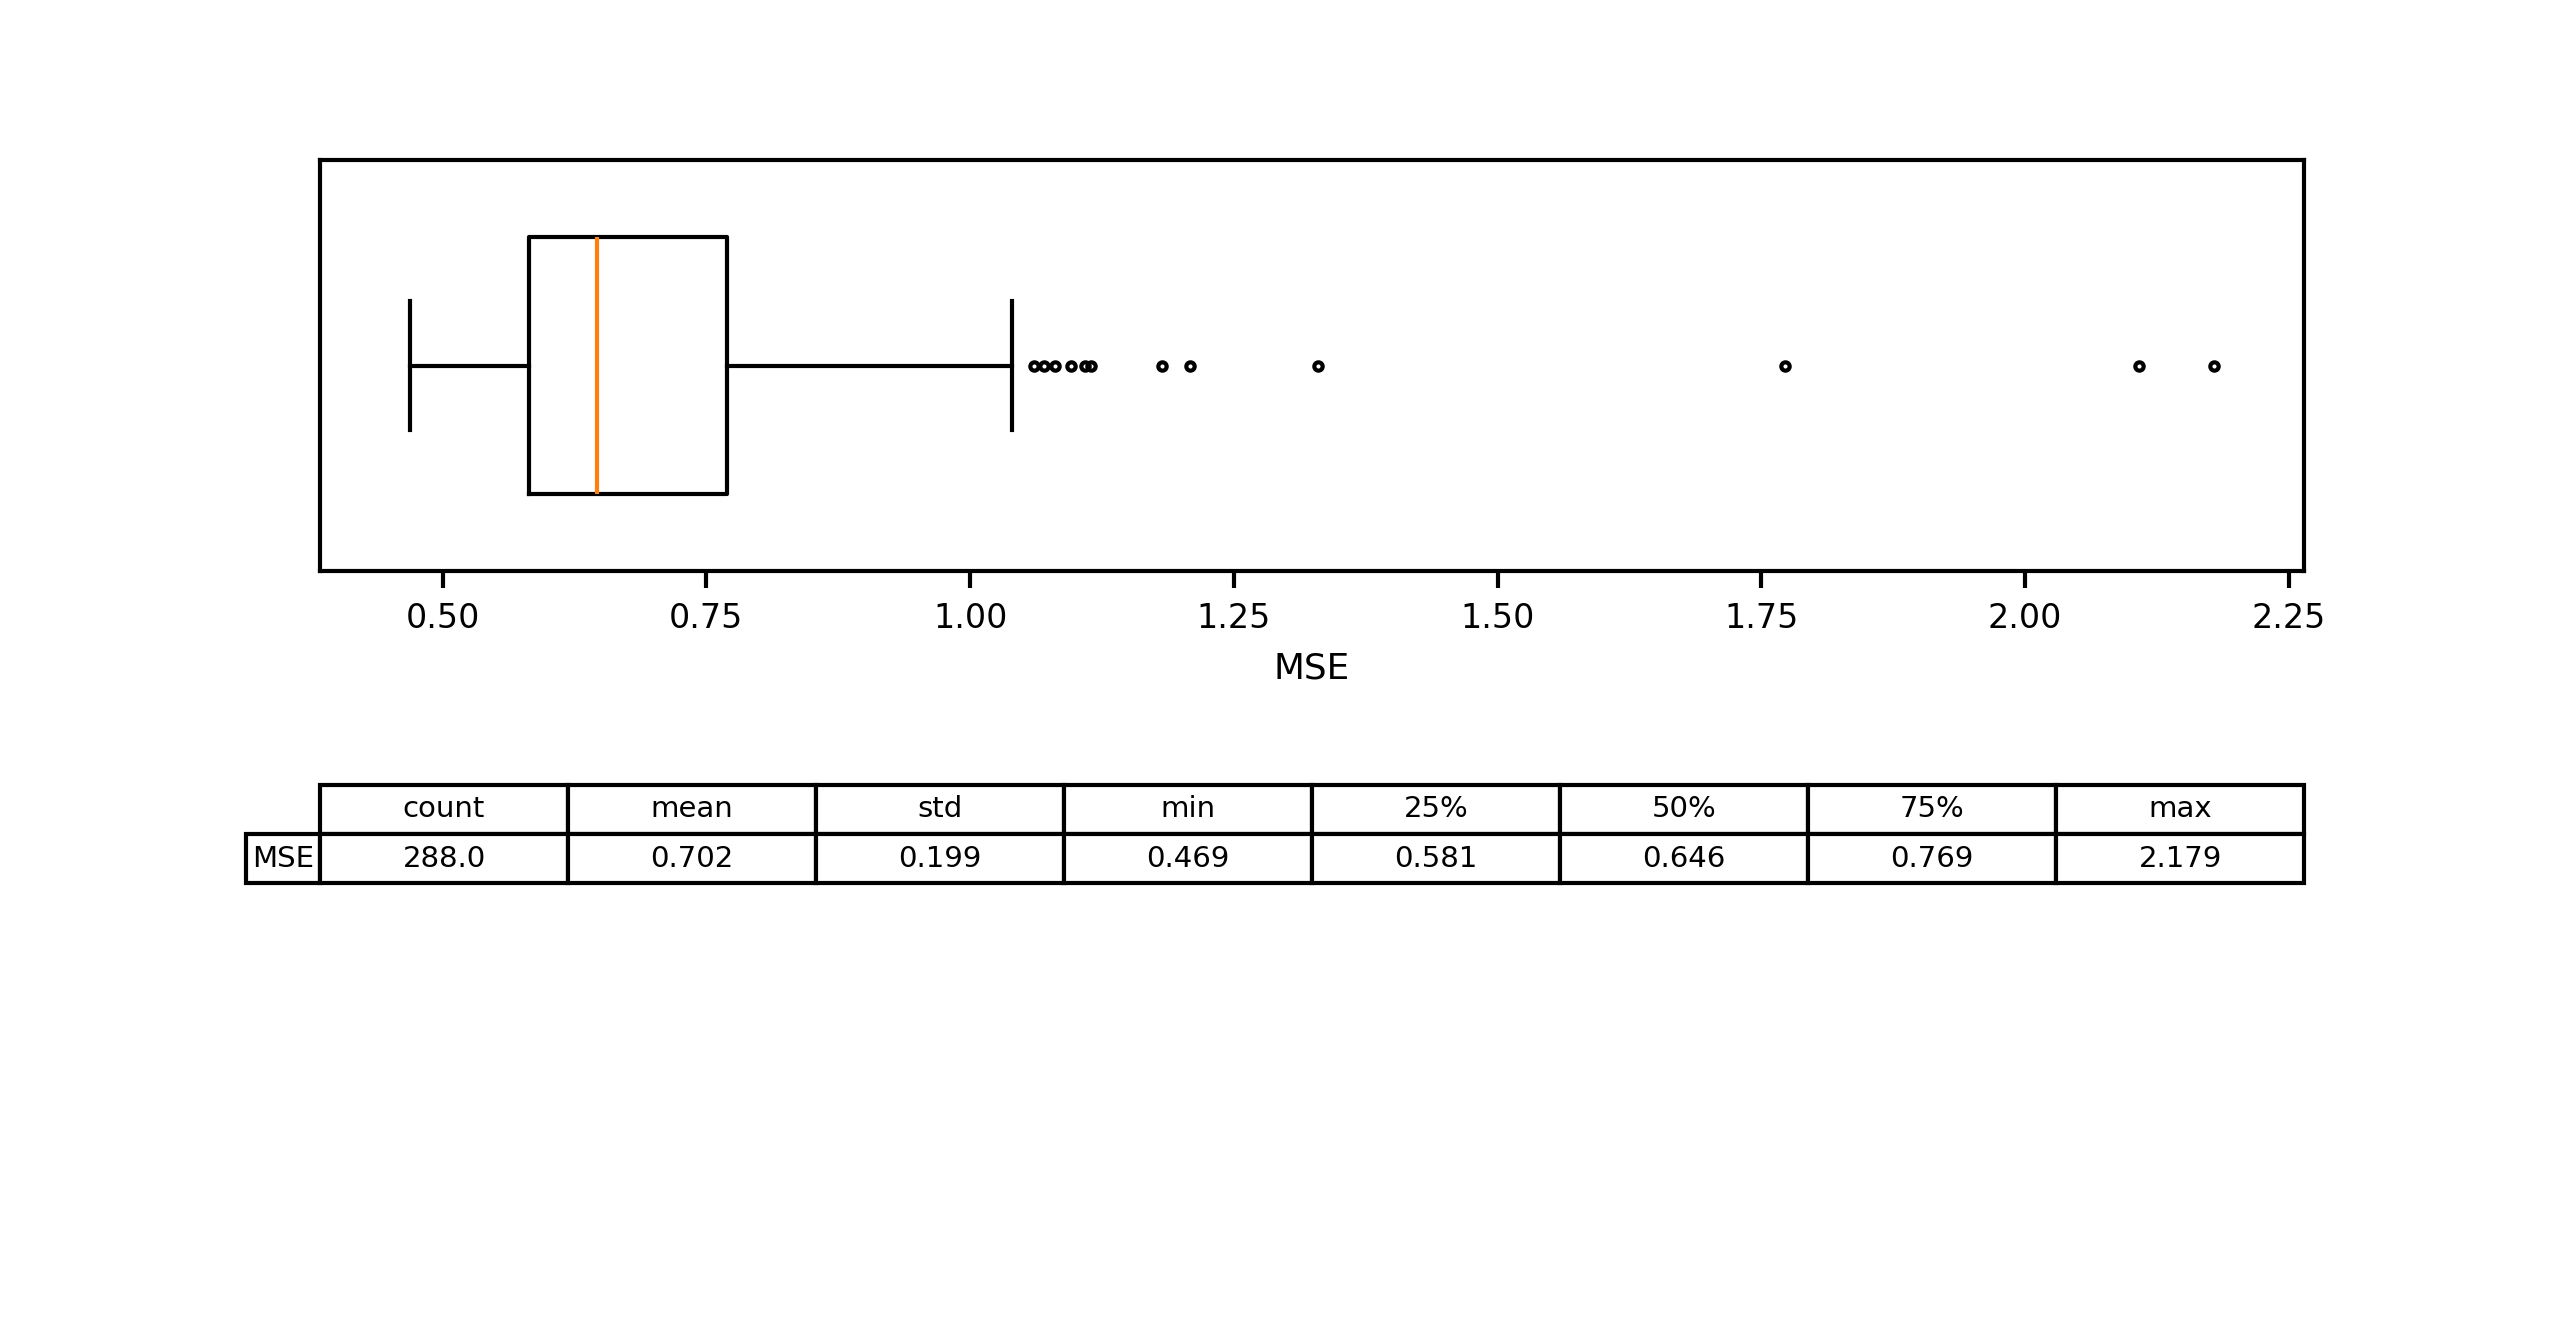
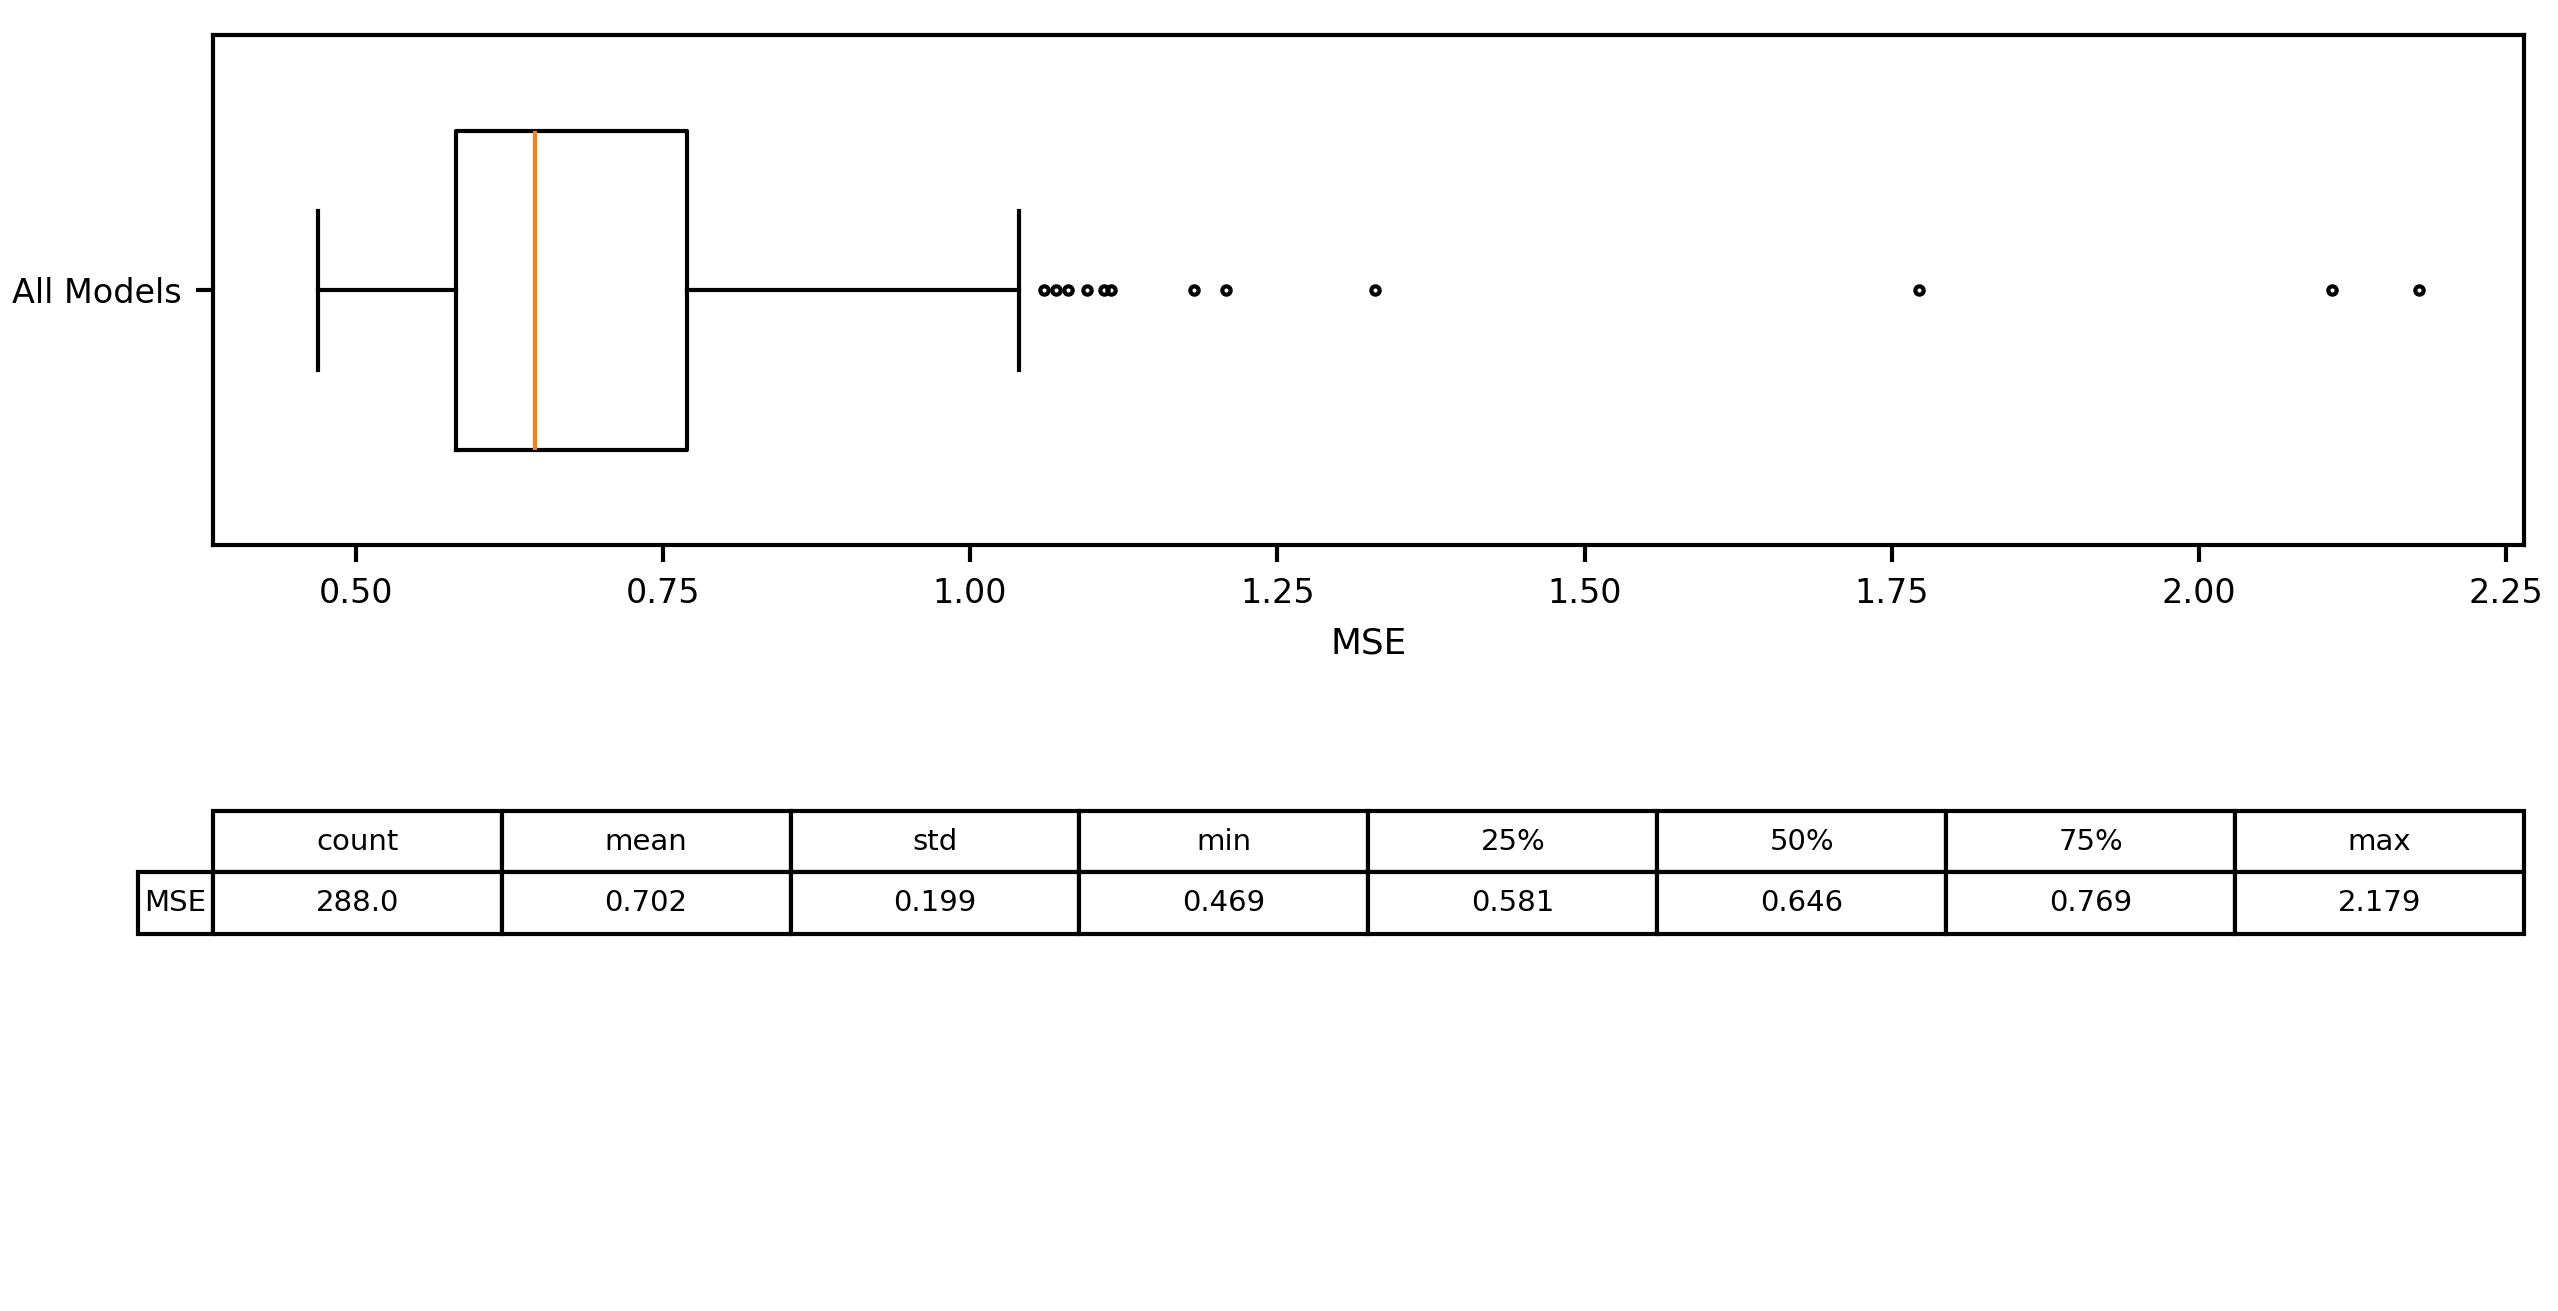
Add y axis to MSE Boxplot

diff --git a/analysis.py b/analysis.py
@@ -36,7 +36,7 @@ fig, (ax_box, ax_tbl) = plt.subplots(
 ax_box.boxplot(
     results['MSE'],
     vert=False,
-    tick_labels=[""],
+    positions=[1],  # explicitly set the position
     boxprops     =dict(linewidth=1),
     whiskerprops =dict(linewidth=1),
     capprops     =dict(linewidth=1),
@@ -47,10 +47,12 @@ ax_box.boxplot(
                        markeredgewidth=1)
 )
 ax_box.set_xlabel('MSE')
+ax_box.set_yticks([1])
+ax_box.set_yticklabels(["All Models"])
 ax_box.tick_params(axis='both', which='both', width=1, length=4)
 
-ax_box.margins(y=0.01) 
-ax_box.set_yticks([]) 
+ax_box.margins(y=0.01)
+
 
 ax_box.set_ylim(pos[0]-gap*0.6, pos[-1]+gap*0.6)
 
@@ -70,4 +72,3 @@ tbl.set_fontsize(7)
 fig.subplots_adjust(hspace=0)             # safety – keep axes touching
 
 plt.show()
-
